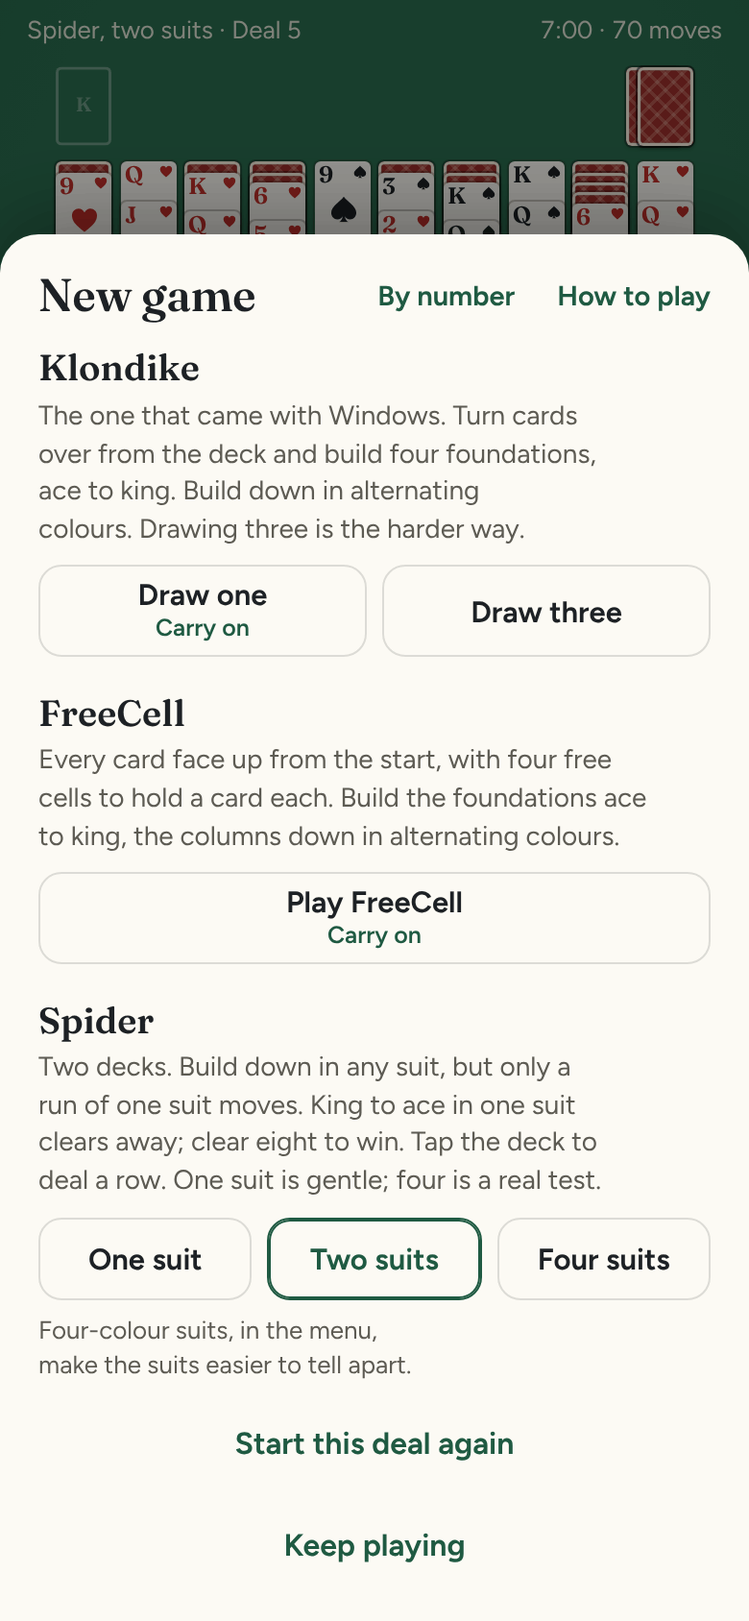
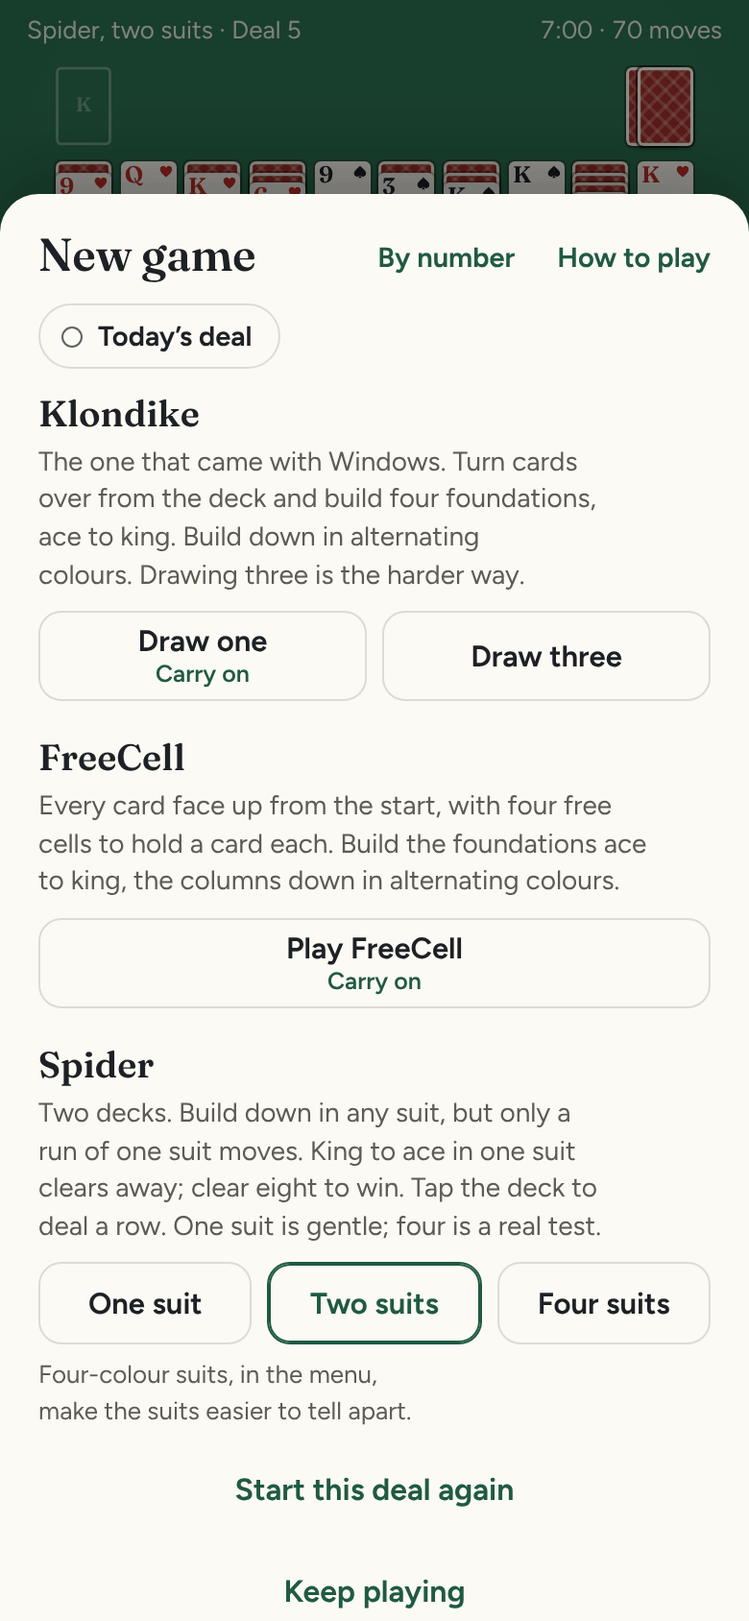
Today's deal, in the New game sheet, plays the same deal on every phone each day, and your record keeps its time and days in a row
Press Today's deal under New game and each game's button plays today's deal of it, worked out from the phone's own date
and the year of deals picked in advance, so every one can be won, it's dealt at once and nothing is sent anywhere. The
game is called Today's deal at the top and on the won panel, through a reload and Start this deal again. The first win
of the day goes into the record as Today's deal, Won in 3:12, with Days in a row beside it, and the won panel says
"Today's deal done: 3 days in a row." In the sheet, the button of today's game says Playing, one waiting says Carry on,
and one won says how long it took. Bring back a record keeps the later day's. Records saved before simply have none
won. On a phone the sheet grows by the button's row; held sideways it sits beside New game, and on a computer the sheet
is a little wider to hold it there. This answers Mark's "Today's deal", built on By number's way of starting a chosen
deal.

Claude-Session: https://claude.ai/code/session_01PQbLNWcaN23kNnArnK42HQ

diff --git a/js/app.js b/js/app.js
@@ -8,12 +8,15 @@ import { suitSprite } from './suits.js';
 import { shortName } from './cards.js';
 import { guardEdges } from './edge-guard.js';
 import { moveWords, aftermath, upWords, hintWords } from './words.js';
+import { DAILY_START, DAILY_DEALS } from './games/daily-deals.js';
 
 const KEY = 'patience.v1';
 const $ = id => document.getElementById(id);
 const DEFAULTS = { variant: 'k1', winnable: true, auto: true, clock: true, four: false, left: false, look: 'phone' };
 const LOOKS = ['phone', 'light', 'dark']; // Look in the menu: whatever the phone is set to, or light or dark whatever it says
-const blank = () => ({ played: 0, won: 0, streak: 0, best: 0, fastest: 0, fewest: 0 });
+// day: the last day a Today's deal was won (see dayOf()), 0 for none; dayTime: how long that win took; days: how many
+// days in a row it had been won, up to that one.
+const blank = () => ({ played: 0, won: 0, streak: 0, best: 0, fastest: 0, fewest: 0, day: 0, dayTime: 0, days: 0 });
 const isObj = x => !!x && typeof x === 'object' && !Array.isArray(x);
 const shapes = {}; // a new deal of each way of playing, for the shape of a saved game (see sound())
 
@@ -24,12 +27,27 @@ const settingsOf = saved => {
   if (!LOOKS.includes(s.look)) s.look = 'phone';
   return s;
 };
-// Counts are whole numbers (the fewest moves a win took among them, 0 for none yet), and the fastest win a time; none
-// of them below nothing.
+// Counts are whole numbers (the fewest moves a win took among them, 0 for none yet, and the day a number too), and the
+// fastest win and Today's deal's a time; none of them below nothing. A save from before Today's deal has none won.
+const TIMES = ['fastest', 'dayTime'];
 const record = r => Object.fromEntries(Object.entries(blank()).map(([k, zero]) => {
   const x = r?.[k];
-  return [k, Number.isFinite(x) && x >= 0 && (k === 'fastest' || Number.isInteger(x)) ? x : zero];
+  return [k, Number.isFinite(x) && x >= 0 && (TIMES.includes(k) || Number.isInteger(x)) ? x : zero];
 }));
+
+// ---- Today's deal ----
+// One deal a day for each way of playing, the same on every phone, from a list made in advance (js/games/daily-deals.js),
+// so every one can be won and nothing has to be solved here. The day is the phone's own: a number, counting from
+// 1 January 1970, so days in a row are a day apart. A game of Today's deal keeps the day it was dealt for, as `daily`.
+const dayOf = (d = new Date()) => Math.round(Date.UTC(d.getFullYear(), d.getMonth(), d.getDate()) / 864e5);
+const FIRST_DAY = Math.round(Date.parse(DAILY_START + 'T00:00:00Z') / 864e5);
+const dailyDeal = (v, day) => { const list = DAILY_DEALS[v], i = (day - FIRST_DAY) % list.length; return list[i < 0 ? i + list.length : i]; };
+// What a game is called: 'Today's deal' (or yesterday's, once midnight has passed), or else its deal number.
+function dealName(s, lower) {
+  const ago = s.daily ? dayOf() - s.daily : -1;
+  const name = ago === 0 ? 'Today’s deal' : ago === 1 ? 'Yesterday’s deal' : `Deal ${s.deal.toLocaleString('en-US')}`;
+  return lower ? name[0].toLowerCase() + name.slice(1) : name;
+}
 
 let lastWritten = stored(); // the save as this page last read or wrote it, to tell when another tab has saved since
 const saved = read(lastWritten);
@@ -249,9 +267,9 @@ function undo() {
   say('Undone.');
 }
 
-// A new game of way `v` (deal `number`, or the next one). Another way of playing, with a game waiting for it, carries on
-// with that game instead, unless a deal is asked for by its number.
-async function newGame(v, number) {
+// A new game of way `v` (deal `number`, or the next one; with `day`, that day's deal for Today's deal). Another way of
+// playing, with a game waiting for it, carries on with that game instead, unless a deal is asked for by its number.
+async function newGame(v, number, day) {
   if (number === undefined && game && v !== game.v && waiting[v]) { carryOn(v); return; }
   const ticket = ++dealing;
   // Chosen from a sheet or the won panel, the table takes focus, so the keyboard's Space and Enter play the new deal.
@@ -285,7 +303,7 @@ async function newGame(v, number) {
     delete waiting[v];
     putAside();
   }
-  start(g.deal(n, v));
+  start(day ? { ...g.deal(n, v), daily: day } : g.deal(n, v));
 }
 
 // The game on the table goes aside, Undo, clock and all, until its way of playing is chosen again. A game won is over,
@@ -315,7 +333,7 @@ function carryOn(v) {
   liftNoted = false;
   take(g);
   write();
-  say(`${label(v)}, deal ${game.deal.toLocaleString('en-US')}, as you left it.`);
+  say(`${label(v)}, ${dealName(game, true)}, as you left it.`);
   after();
   if (settings.winnable) dealer.prepare(v);
 }
@@ -330,7 +348,8 @@ function restart() {
   clearTimeout(slow);
   hideToast();
   table.locked = true;
-  start(G().deal(game.deal, game.v), true);
+  const s = G().deal(game.deal, game.v);
+  start(game.daily ? { ...s, daily: game.daily } : s, true);
 }
 
 // The table faded, and Hint and Undo off, while a new deal is being shuffled (see newGame).
@@ -347,7 +366,7 @@ function start(state, again) {
   game = state;
   history = [];
   news = null;
-  say(`${label(state.v)}, deal ${state.deal.toLocaleString('en-US')}.`);
+  say(`${label(state.v)}, ${dealName(state, true)}.`);
   // Starting the same deal again part way through keeps its clock (stopped until the next move), so a fastest win counts
   // all the time spent on that deal, not just the last try. Once it's won, starting it again is a new game with a new clock.
   if (again && counted) stopClock();
@@ -468,6 +487,14 @@ function recordWin() {
   stopClock();
   const st = stats[game.v];
   winNews = newsOf(st, elapsed, game.v);
+  if (game.daily > st.day) {
+    // Today's deal (or another day's, not won yet): the first win of it is that day's time. Days in a row count on.
+    st.days = game.daily === st.day + 1 ? st.days + 1 : 1;
+    st.day = game.daily;
+    st.dayTime = elapsed;
+    const done = `${dealName(game)} done${st.days > 1 ? `: ${st.days} days in a row` : ''}.`;
+    winNews = { text: winNews ? `${winNews.text} ${done}` : done, tile: winNews?.tile };
+  }
   if (!counted) st.played++;
   st.won++;
   st.streak++;
@@ -514,7 +541,7 @@ function victory() {
   showInfo(); // the last cards may have gone up by themselves; Undo goes off
   const st = stats[game.v];
 
-  $('won-line').textContent = `${label(game.v)}, deal\u00a0${game.deal.toLocaleString('en-US')}, in ${clock(elapsed)} and ${plural(game.moves, 'move')}.`;
+  $('won-line').textContent = `${label(game.v)}, ${dealName(game, true).replace(' ', '\u00a0')}, in ${clock(elapsed)} and ${plural(game.moves, 'move')}.`;
   $('won-stats').innerHTML = tiles([
     ['Won', `${st.won} of ${st.played}`],
     ['Streak', st.streak],
@@ -572,7 +599,7 @@ const plural = (n, word) => `${n.toLocaleString('en-US')} ${word}${n === 1 ? '' 
 function showInfo() {
   if (!game) return;
   $('wait').hidden = true;
-  $('status').textContent = `${label(game.v)} · Deal ${game.deal.toLocaleString('en-US')}`;
+  $('status').textContent = `${label(game.v)} · ${dealName(game)}`;
   $('moves').textContent = plural(game.moves, 'move');
   $('time').textContent = clock(played());
   $('b-undo').disabled = !history.length || over();
@@ -604,6 +631,8 @@ function showStats(v) {
     ['Best streak', st.best.toLocaleString('en-US')],
     ['Fastest', st.fastest ? clock(st.fastest) : '–'],
     ['Fewest moves', st.fewest ? st.fewest.toLocaleString('en-US') : '–'],
+    ['Today’s deal', st.day === dayOf() ? `Won in ${clock(st.dayTime)}` : '–'],
+    ['Days in a row', (st.day >= dayOf() - 1 ? st.days : 0).toLocaleString('en-US')],
   ]);
 }
 
@@ -783,6 +812,10 @@ function bringBack(copy) {
     st.streak = Math.max(st.streak, r.streak);
     st.best = Math.max(st.best, r.best, st.streak);
     for (const k of ['fastest', 'fewest']) st[k] = st[k] && r[k] ? Math.min(st[k], r[k]) : st[k] || r[k];
+    // Today's deal: the later day won, with its time and days in a row; won on both phones the same day, the quicker
+    // time and the longer run.
+    if (r.day > st.day) Object.assign(st, { day: r.day, dayTime: r.dayTime, days: r.days });
+    else if (r.day && r.day === st.day) Object.assign(st, { dayTime: Math.min(st.dayTime, r.dayTime), days: Math.max(st.days, r.days) });
   }
   if (isObj(copy.settings)) {
     Object.assign(settings, settingsOf({ ...settings, ...copy.settings, variant: settings.variant }));
@@ -887,18 +920,18 @@ function askNoMore(focus) {
   if (focus) $('b-clear').focus({ preventScroll: true });
 }
 document.querySelectorAll('[data-v]').forEach(b => b.addEventListener('click', () => {
-  const n = askedFor();
-  if (n) newGame(b.dataset.v, n); else newGame(b.dataset.v);
+  const v = b.dataset.v, n = askedFor();
+  if (todayOn) todayFor(v).go();
+  else if (n) newGame(v, n);
+  else newGame(v);
 }));
 document.querySelectorAll('[data-close]').forEach(b => b.addEventListener('click', closeSheets));
 
 function openNew() {
   hideToast();
   $('new-note').hidden = !inPlay();
-  $('deal-n').value = '';
-  $('by-number').hidden = true;
-  $('b-number').setAttribute('aria-expanded', 'false');
-  showChoices();
+  showToday(false);
+  showNumber(false);
   $('b-restart').hidden = !game || !game.moves;
   $('b-keep').textContent = game && over() ? 'Close' : 'Keep playing'; // a game won is over, so there's no playing on
   document.querySelectorAll('[data-v]').forEach(b => {
@@ -914,15 +947,16 @@ function openNew() {
 // and the deal is played as asked, without the check that it can be won.
 const askedFor = () => Number($('deal-n').value.replace(/\D/g, '').slice(0, 9)) || 0;
 const fmt = n => n.toLocaleString('en-US');
-// Under each game's name in the sheet: the deal a number typed would play (or how high its deals go, if it hasn't
-// one so high), or else Carry on, for another way of playing with a game waiting.
+// Under each game's name in the sheet: with Today's deal pressed, how today's deal of it stands; the deal a number typed
+// would play (or how high its deals go, if it hasn't one so high); or else Carry on, for another way of playing with a
+// game waiting.
 function showChoices() {
   const n = askedFor();
   document.querySelectorAll('[data-v]').forEach(b => {
     const v = b.dataset.v, last = VARIANTS[v].game.lastDeal;
     b.querySelector('.waits')?.remove();
-    b.disabled = n > last;
-    const words = n ? (n > last ? `Up to ${fmt(last)}` : `Deal ${fmt(n)}`) : waiting[v] && v !== game?.v ? 'Carry on' : '';
+    b.disabled = !todayOn && n > last;
+    const words = todayOn ? todayFor(v).line : n ? (n > last ? `Up to ${fmt(last)}` : `Deal ${fmt(n)}`) : waiting[v] && v !== game?.v ? 'Carry on' : '';
     if (!words) return;
     const line = document.createElement('span');
     line.className = 'waits';
@@ -935,14 +969,21 @@ function showChoices() {
     : `Choose a game for deal ${fmt(n)}. A deal by number isn’t checked first, so it may be one that can’t be won, as FreeCell’s 11,982 famously can’t.`;
 }
 $('deal-n').addEventListener('input', showChoices);
-// By number opens the field, and closes it again, leaving the games as they were.
-$('b-number').addEventListener('click', () => {
-  const open = $('by-number').hidden;
+// By number opens the field, and closes it again, leaving the games as they were. Today's deal and By number don't go
+// together: pressing one lets the other go.
+function showNumber(open) {
   $('by-number').hidden = !open;
   $('b-number').setAttribute('aria-expanded', String(open));
+  $('deal-n').value = '';
+  if (open) showToday(false);
+  showChoices();
+}
+$('b-number').addEventListener('click', () => {
+  const open = $('by-number').hidden;
+  showNumber(open);
   if (open) $('deal-n').focus();
-  else { $('deal-n').value = ''; showChoices(); }
 });
+
 // Enter (Go on a phone's keyboard) plays the deal in the way of playing the sheet opened on.
 $('deal-n').addEventListener('keydown', e => {
   if (e.key !== 'Enter' || e.isComposing) return;
@@ -950,6 +991,24 @@ $('deal-n').addEventListener('keydown', e => {
   const n = askedFor(), v = game?.v || settings.variant;
   if (n && n <= VARIANTS[v].game.lastDeal) newGame(v, n);
 });
+
+// Today's deal, pressed, turns each game's button into today's deal of it, saying how it stands: Won in 3:12, Carry on
+// (it's waiting), Playing (it's on the table), or else Today's deal. `go` is what pressing it does.
+let todayOn = false;
+function todayFor(v) {
+  const day = dayOf(), st = stats[v];
+  if (game?.v === v && game.daily === day && !over()) return { line: 'Playing', go: closeSheets };
+  if (game?.v !== v && waiting[v]?.state.daily === day) return { line: 'Carry on', go: () => carryOn(v) };
+  return { line: st.day === day ? `Won in ${clock(st.dayTime)}` : 'Today’s deal', go: () => newGame(v, dailyDeal(v, day), day) };
+}
+function showToday(on) {
+  todayOn = on;
+  $('b-today').setAttribute('aria-pressed', String(on));
+  $('today-says').hidden = !on;
+  if (on && !$('by-number').hidden) showNumber(false);
+  showChoices();
+}
+$('b-today').addEventListener('click', () => showToday(!todayOn));
 
 let opener = null;
 function openSheet(id) {

diff --git a/css/app.css b/css/app.css
@@ -589,6 +589,37 @@ button { font: inherit; color: inherit; }
 @media (hover: hover) {
   .choice:disabled:hover { border-color: var(--line); }
 }
+/* Today's deal: pressed, the games' buttons play today's deals. On a line of its own under New game, but beside it
+   held sideways, where there's room. */
+.new-head { flex-wrap: wrap; row-gap: 10px; }
+.today-row { order: 3; flex-basis: 100%; }
+@media (min-width: 600px) and (min-height: 560px) {
+  #sheet-new .panel { width: min(100% - 32px, 520px); }
+  #sheet-new .today-row { order: 0; flex-basis: auto; margin: 0 auto 0 18px; }
+}
+.today {
+  position: relative;
+  display: inline-flex;
+  align-items: center;
+  gap: 8px;
+  padding: 7px 14px 7px 11px;
+  border: 1.5px solid var(--line);
+  border-radius: 999px;
+  background: transparent;
+  color: var(--ink);
+  font-size: 14.5px;
+  font-weight: 650;
+  cursor: pointer;
+}
+.today::before { content: ''; width: 9px; height: 9px; border: 1.5px solid currentColor; border-radius: 50%; opacity: 0.7; }
+.today::after { content: ''; position: absolute; inset: 50% 0 auto; height: 44px; translate: 0 -50%; }
+.today[aria-pressed="true"] { border-color: var(--accent); box-shadow: inset 0 0 0 1px var(--accent); color: var(--accent); }
+.today[aria-pressed="true"]::before { background: currentColor; opacity: 1; }
+.today:focus-visible { outline: 2px solid var(--accent); outline-offset: 2px; }
+@media (hover: hover) {
+  .today:hover { border-color: var(--accent); }
+}
+#today-says { margin: 2px 0 14px; color: var(--muted); font-size: 13.5px; line-height: 1.4; text-wrap: balance; }
 /* By number, beside How to play, opens a field for a deal by number under them, its name and the field on one line. */
 .head-acts { display: flex; gap: 2px; }
 .head-acts .small-plain:not(:last-child) { margin-right: 0; }
@@ -639,6 +670,9 @@ button { font: inherit; color: inherit; }
   #sheet-new .pick .aside { margin: 5px 0 0; font-size: 12.5px; line-height: 1.3; }
   #sheet-new .pick .choice:has(.waits) { padding-block: 3px; }
   #sheet-new #by-number { margin: 4px 0 10px; }
+  #sheet-new .today-row { order: 0; flex-basis: auto; margin: 0 auto 0 18px; }
+  #sheet-new .today { padding-block: 5px; }
+  #sheet-new #today-says { margin: 0 0 8px; }
   #sheet-new .by-number input { min-height: 40px; padding-block: 6px; }
   .plains { display: flex; gap: 8px; margin-top: 6px; }
   .plains .plain { margin-top: 0; }
@@ -682,10 +716,12 @@ button { font: inherit; color: inherit; }
 .stats dt { font-size: 12px; color: var(--muted); }
 .stats dd { margin: 2px 0 0; font: 600 21px/1.2 var(--serif); font-variant-numeric: tabular-nums; }
 .stats + .note { margin: 10px 0 0; }
-/* The record in the menu: the counts and the streak in a row of four, and the bests in a row of three under them. */
+/* The record in the menu: the counts and the streak in a row of four, the bests in a row of three under them, and
+   Today's deal in a row of two at the foot. */
 #stats { grid-template-columns: repeat(12, 1fr); }
 #stats div { grid-column: span 3; padding-inline: 4px; }
 #stats div:nth-child(n + 5) { grid-column: span 4; }
+#stats div:nth-child(n + 8) { grid-column: span 6; }
 /* Under the record: Clear this record, which asks once, in place, before it clears. */
 .record-acts { margin-top: 8px; }
 .record-acts .small-plain { margin: 0 0 0 -10px; }

diff --git a/sw.js b/sw.js
@@ -7,13 +7,13 @@
 // refreshed only when a page that loads it is visited online, and the copy could mix two releases. So FILES is a
 // fingerprint of every file in SHELL: change any of them and test/e2e.mjs fails until FILES is changed to match (it
 // says what to), which changes this file, so every copy is made whole again at once.
-const CACHE = 'patience-v7'; // bump the number when the file list changes
-const FILES = '58cba7fe'; // test/e2e.mjs checks this
+const CACHE = 'patience-v8'; // bump the number when the file list changes
+const FILES = 'bdfb6a26'; // test/e2e.mjs checks this
 const SHELL = [
   './', 'index.html', 'icon.svg', 'manifest.webmanifest', 'icon-180.png', 'icon-192.png',
   'css/app.css', 'fonts/fraunces.woff2', 'fonts/figtree.woff2',
   'js/app.js', 'js/cards.js', 'js/deals.js', 'js/edge-guard.js', 'js/rng.js', 'js/suits.js', 'js/table.js', 'js/win.js', 'js/words.js',
-  'js/games/index.js', 'js/games/klondike.js', 'js/games/freecell.js', 'js/games/spider.js', 'js/games/ready-deals.js',
+  'js/games/index.js', 'js/games/klondike.js', 'js/games/freecell.js', 'js/games/spider.js', 'js/games/ready-deals.js', 'js/games/daily-deals.js',
   'js/solvers/klondike.js', 'js/solvers/best-first.js', 'js/solvers/freecell.js', 'js/solvers/spider.js',
 ];
 

diff --git a/index.html b/index.html
@@ -51,11 +51,13 @@
     <section class="panel" role="dialog" aria-modal="true" aria-labelledby="new-title">
       <div class="panel-head new-head">
         <h2 id="new-title">New game</h2>
+        <div class="today-row"><button type="button" class="today" id="b-today" aria-pressed="false" aria-describedby="today-says">Today’s deal</button></div>
         <div class="head-acts">
           <button type="button" class="small-plain" id="b-number" aria-expanded="false" aria-controls="by-number">By number</button>
           <button type="button" class="small-plain" id="b-howto">How to play</button>
         </div>
       </div>
+      <p id="today-says" hidden>The same deal on every phone today, one for each game, and every one can be won.</p>
       <div id="by-number" hidden>
         <div class="by-number">
           <label for="deal-n">Deal number</label>

diff --git a/js/games/index.js b/js/games/index.js
@@ -3,7 +3,8 @@
 // Every game is an object with the same parts, so the table and the rest of the app don't need to know which it is.
 // A few parts only some games have, and the rest of the app does without them where a game doesn't (marked below).
 // States are plain objects that are never changed in place; each has `v` (the way of playing, a key below),
-// `deal` (the deal number) and `moves`.
+// `deal` (the deal number) and `moves`. A game of Today's deal has `daily` too (the day it was dealt for), which the app
+// adds and every move carries along as it is, as it does anything else in a state it doesn't know.
 //
 //   deal(n, v)              a new game: deal number n of way v
 //   layout(s, left)         where the piles go: { cols, rows?, split?, top: [{ id, col, kind, label?, dir? }], tableau: [ids],

diff --git a/README.md b/README.md
@@ -12,7 +12,7 @@
   <img src="docs/phone-spider.png" alt="Spider with two suits, deal 5, after 70 moves: ten columns with long runs of spades and hearts, and two rows left to deal in the corner" width="250">
 </p>
 <p align="center">
-  <img src="docs/phone-new.png" alt="The New game sheet: By number and How to play at the top, then Klondike drawing one or three, FreeCell, and Spider with one, two or four suits, each with a line about how it plays, and Carry on under Draw one and Play FreeCell, which have games waiting" width="250">
+  <img src="docs/phone-new.png" alt="The New game sheet: By number and How to play at the top, and Today's deal under them, then Klondike drawing one or three, FreeCell, and Spider with one, two or four suits, each with a line about how it plays, and Carry on under Draw one and Play FreeCell, which have games waiting" width="250">
   &nbsp;
   <img src="docs/phone-won.png" alt="A won Klondike game: the cards bouncing off the foundations and leaving trails across the table, behind a panel saying You won, deal 52,817, in 4:41 and 161 moves, your fastest yet by 19 seconds, 18 won of 24 and a streak of 5, then Next deal, Play this deal again and Choose a game" width="250">
 </p>
@@ -27,11 +27,12 @@
 - **Undo all the way back,** even after closing the page and coming back to it.
 - **A game waiting for each way of playing.** Try FreeCell in the middle of a Klondike game and your Klondike game waits where you left it, with its Undo and its clock: choose Klondike again in New game, where it says Carry on, and you're back in it. Only a new deal of the same way counts a game you're part way through as a loss.
 - **Deals that can be won.** Before a deal reaches you, a solver plays it through, seeing every face-down card, and any deal it can't win in time is shuffled away. So that you never wait for one, the first game of each way of playing comes from a list of deals already checked, and the next is found in the background while you play. Turn this off in the menu if you'd rather take your chances.
+- **Today's deal.** Press Today's deal in the New game sheet and each game's button plays today's deal of it, the same on every phone that day, worked out from the date with nothing sent anywhere. They're picked in advance, so every one can be won and none has to be found while you wait. Your record keeps the time you first won today's deal in, and how many days in a row you've won it, so you can set your time beside a friend's.
 - **A deal by number.** Every game shows its deal number. Tap By number in the New game sheet and type one, and each game's button plays that deal of it: up to 32,000 in FreeCell and 999,999 in the others. It's dealt as asked, without the check that it can be won, so you can have another go at a deal, play the same one as a friend, or try FreeCell's 11,982, the famous one that can't be won.
 - **A hint that knows the way.** Hint asks the same solver for the next move from where you are, and while you do what it says, it keeps to the way it found, even when you try something else, ask it there, and undo back. When it's drawing for a card further down the deck, it says which one. If an earlier move has left no way to win, it says so, and Take me back goes back as many moves as it takes to where the game can still be won, says how many, and shows the way on from there; Undo beside it goes back one move at a time. And once no move you could make would ever help, the game says so without being asked, with the same Take me back.
 - **Cards go up by themselves** in Klondike and FreeCell once nothing on the table could still need them, and when the rest is in order the game finishes itself. Drawing one, that's as soon as every card in the columns is face up, turning cards from the deck as it goes. You can switch the first part off.
 - **The bouncing cards** when you win, as tradition requires.
-- **Your record** for each of the six ways of playing: games played, won, win rate, streak, best streak, fastest win and fewest moves. Clear this record, under it, starts one way of playing again from nothing, after asking once. Save a copy of your record, at the foot of the menu, gives you a small file, named something like patience-record-2026-11-23.json, with your record and settings in it; Bring back a record, on a new phone or after your browser has cleared its data, adds it to the record there and brings the settings back. No record is ever added twice, even one that came across inside another phone's copy.
+- **Your record** for each of the six ways of playing: games played, won, win rate, streak, best streak, fastest win, fewest moves, and Today's deal: how long it took today, and days in a row. Clear this record, under it, starts one way of playing again from nothing, after asking once. Save a copy of your record, at the foot of the menu, gives you a small file, named something like patience-record-2026-11-23.json, with your record and settings in it; Bring back a record, on a new phone or after your browser has cleared its data, adds it to the record there and brings the settings back. No record is ever added twice, even one that came across inside another phone's copy.
 - **Settings:** only deal games that can be won, send cards up by themselves, show the time and moves, four-colour suits (clubs green, diamonds blue), the deck on the left instead of under your right thumb, and the look: light or dark, or whatever your phone is set to.
 - **On a keyboard,** Space uses the deck in Klondike and Spider, Z undoes, H gives a hint, Enter plays it and N opens New game (Enter there deals another of the same).
 - No ads, no account and no server. Your games, your record and your settings stay in your browser. It works offline and installs to a phone's home screen. On an iPhone, installing it keeps your record safest: Safari clears what a site has saved after seven days of using Safari without opening it, and an app on the home screen keeps its own count.
